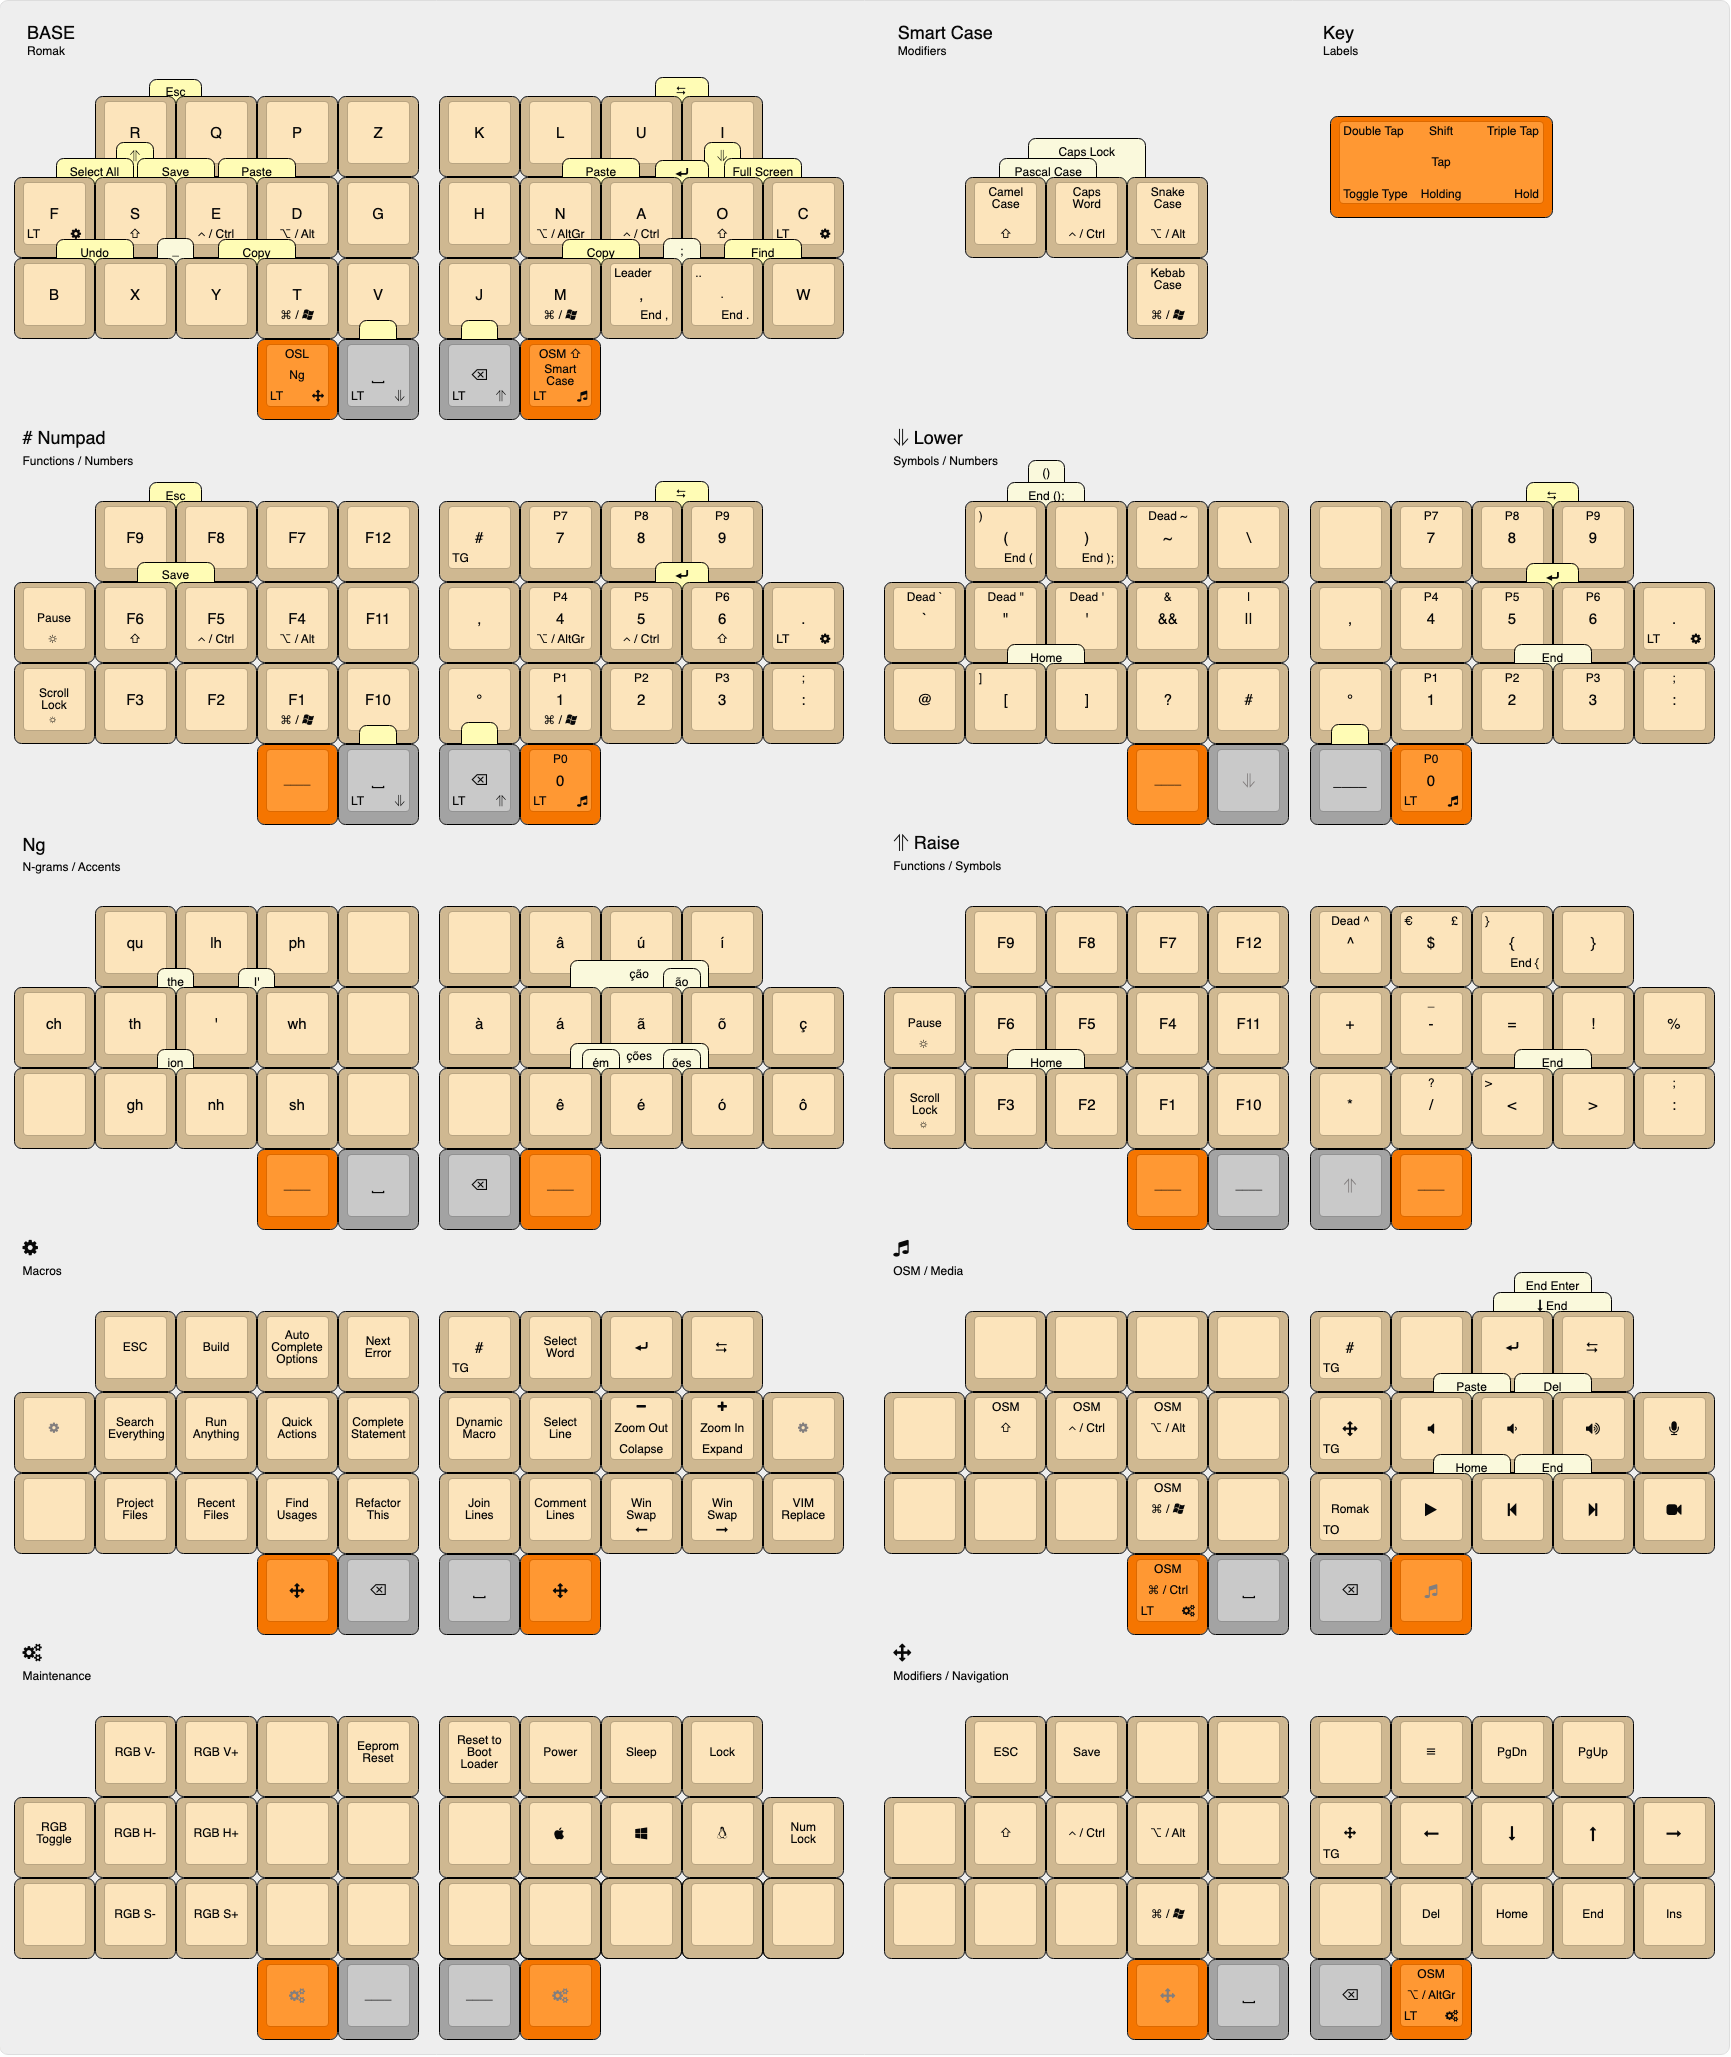
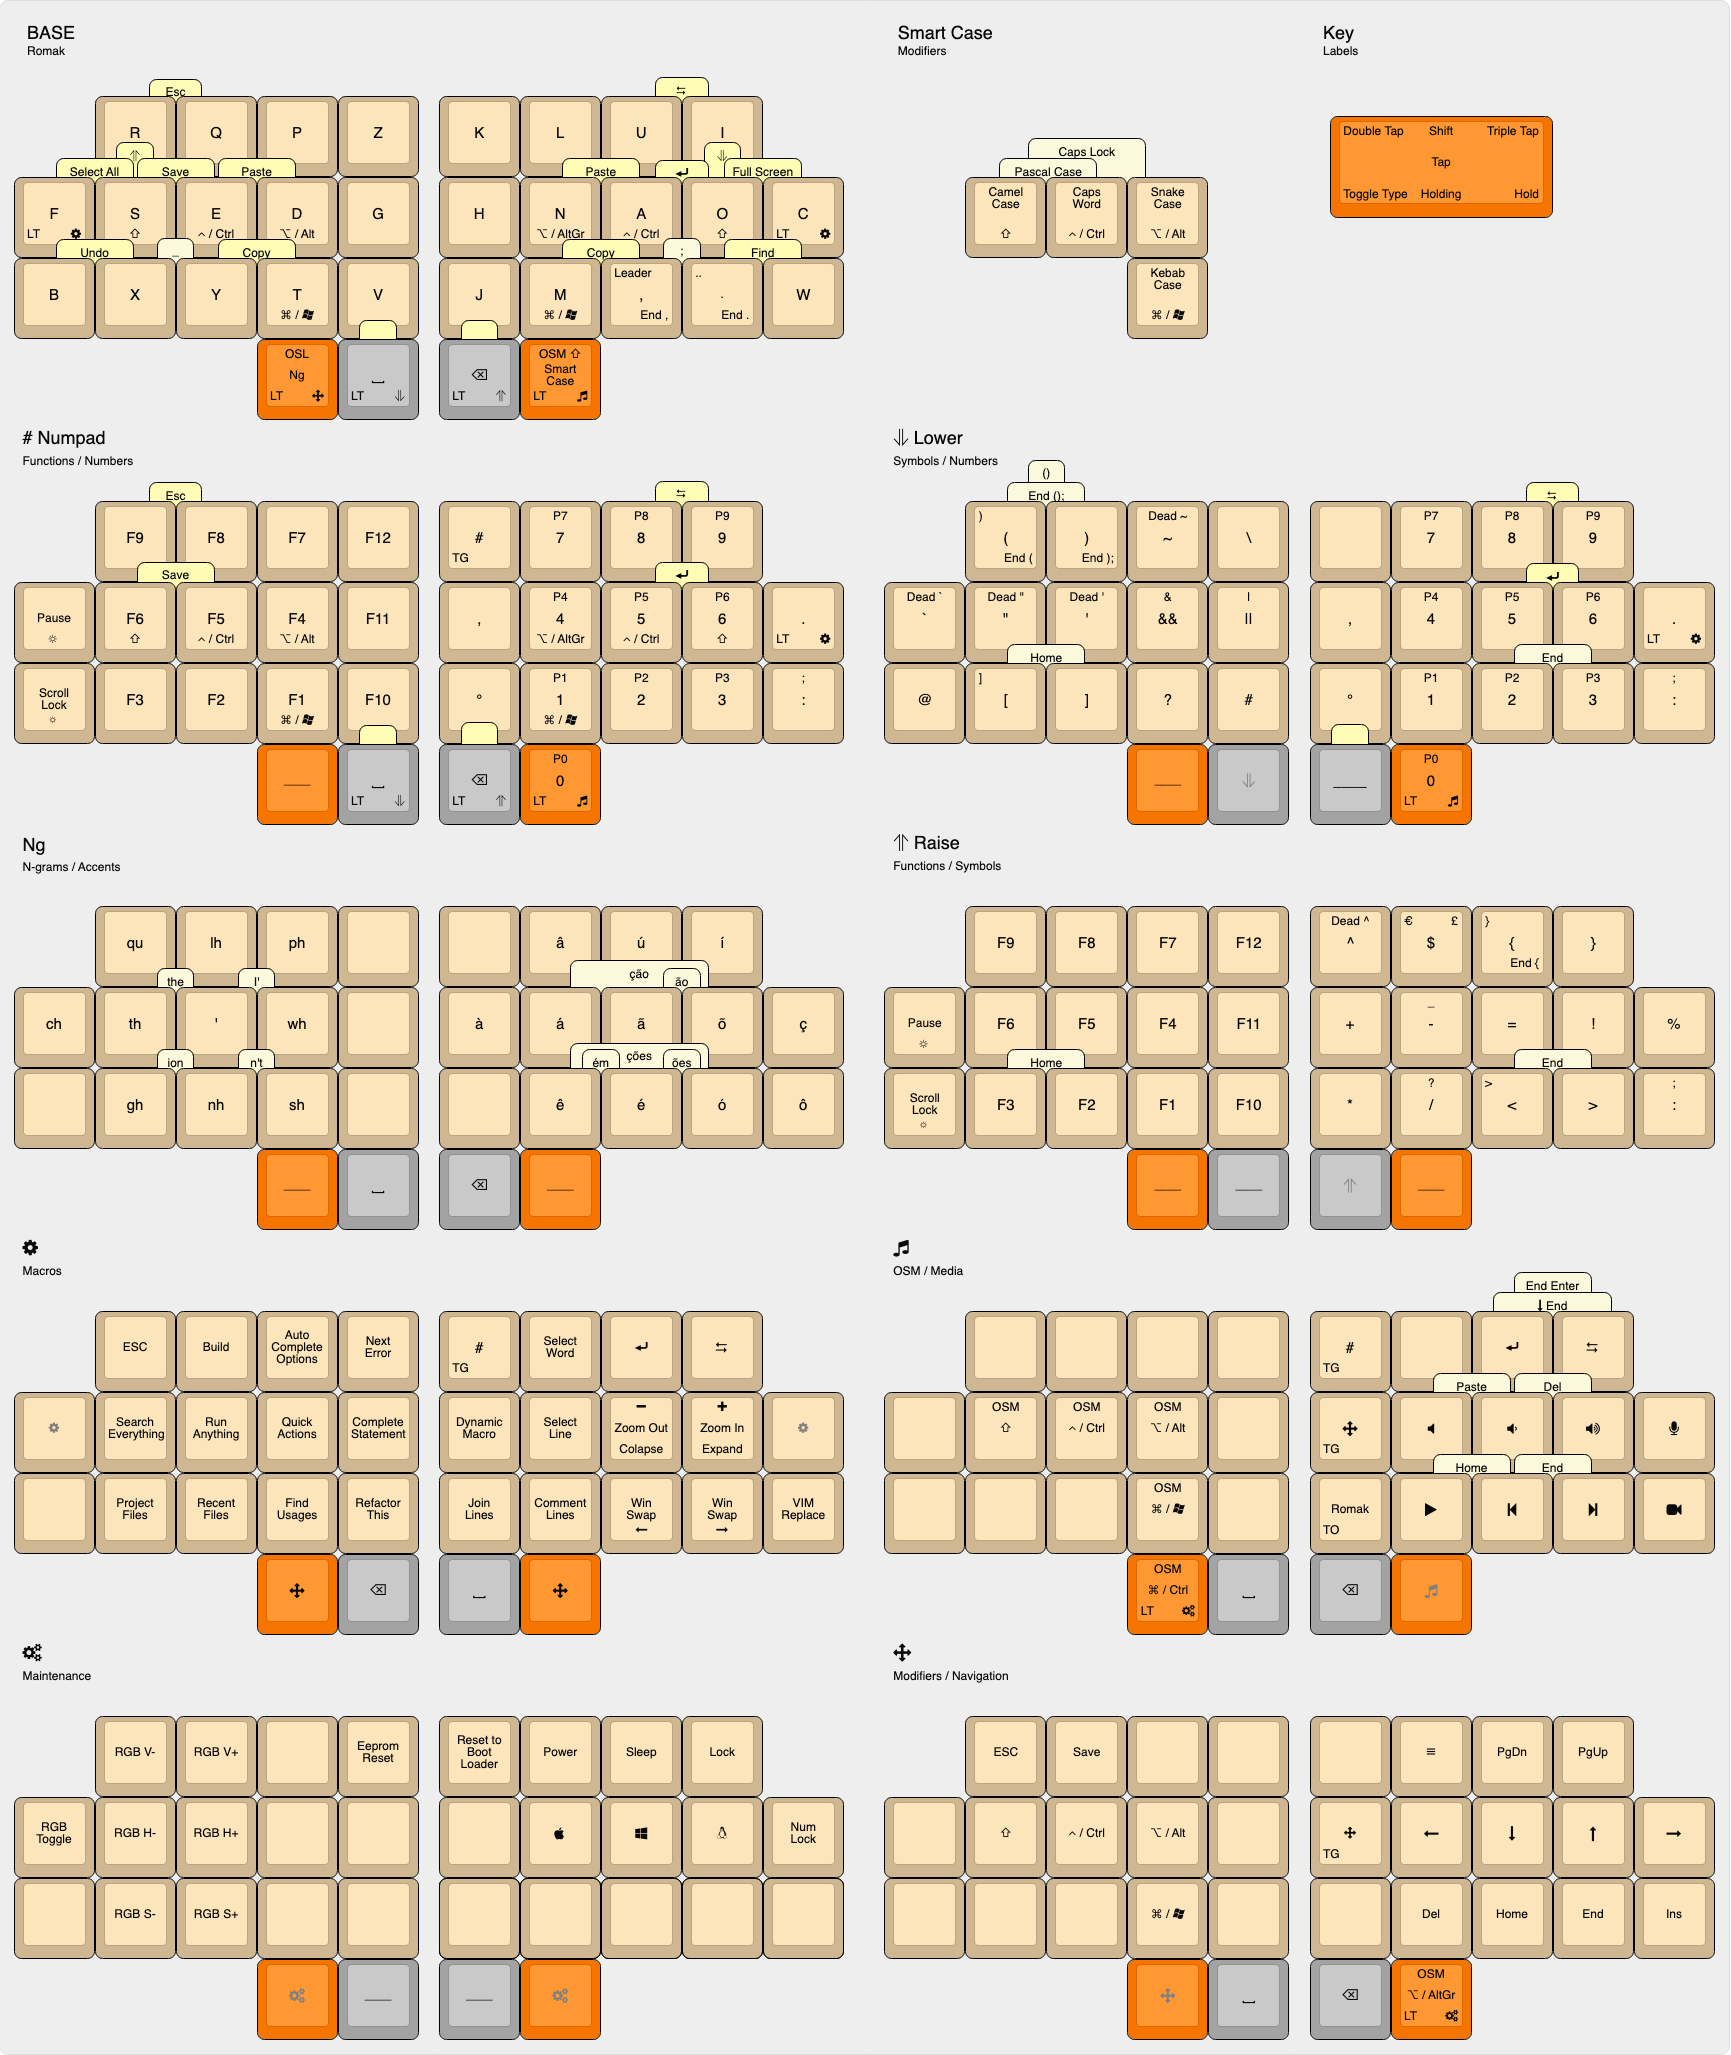
add n't ngram

diff --git a/src/qmk/users/rafaelromao/features/combos.c b/src/qmk/users/rafaelromao/features/combos.c
@@ -32,6 +32,7 @@ const uint16_t PROGMEM r_med_ent_combo[] = {KC_ENT, KC_TAB, COMBO_END};
 // N-Grams
 
 const uint16_t PROGMEM l_ng_i_combo[]    = {MC_SQUO, MC_WH, COMBO_END};
+const uint16_t PROGMEM l_ng_nt_combo[]   = {MC_NH, MC_SH, COMBO_END};
 const uint16_t PROGMEM l_ng_the_combo[]  = {MC_TH, MC_SQUO, COMBO_END};
 const uint16_t PROGMEM l_ng_ion_combo[]  = {MC_GH, MC_NH, COMBO_END};
 const uint16_t PROGMEM r_ng_ao_combo[]   = {MC_TL_A, MC_TL_O, COMBO_END};
@@ -69,18 +70,18 @@ const uint16_t PROGMEM rom_reset_combo[] = {KCF_MAC, KC_B, KCC_MAC, KC_W, COMBO_
 const uint16_t PROGMEM secret_1_combo[] = {SEC_1, SEC_2, SEC_3, SEC_4, COMBO_END};
 
 combo_t key_combos[COMBO_COUNT] = {
-    COMBO(l_num_esc_combo, KC_ESC),  COMBO(l_num_sav_combo, MC_SAVE),    COMBO(r_num_ent_combo, KC_ENT),
-    COMBO(l_low_par_combo, TD_PARN), COMBO(r_low_tab_combo, KC_TAB),     COMBO(r_low_ent_combo, KC_ENT),
-    COMBO(l_ng_the_combo, MC_THE),   COMBO(l_ng_i_combo, MC_I),          COMBO(l_ng_ion_combo, MC_ION),
-    COMBO(r_ng_ao_combo, MC_AO),     COMBO(r_ng_cao_combo, MC_CAO),      COMBO(r_ng_oes_combo, MC_OES),
-    COMBO(r_ng_coes_combo, MC_COES), COMBO(r_ng_em_combo, MC_EM),        COMBO(r_rom_cop_combo, MC_COPY),
-    COMBO(r_rom_sco_combo, TD_SCLE), COMBO(l_rom_usc_combo, KC_UNDS),    COMBO(l_rom_sal_combo, MC_SELC),
-    COMBO(r_rom_pas_combo, MC_PAST), COMBO(l_rom_rai_combo, MO_RAI),     COMBO(l_rom_sav_combo, MC_SAVE),
-    COMBO(l_rom_pas_combo, MC_PAST), COMBO(l_rom_esc_combo, KC_ESC),     COMBO(r_rom_fin_combo, MC_FIND),
-    COMBO(l_rom_und_combo, MC_UNDO), COMBO(l_rom_cop_combo, MC_COPY),    COMBO(r_rom_tab_combo, KC_TAB),
-    COMBO(r_rom_low_combo, MO_LOW),  COMBO(r_rom_ent_combo, KC_ENT),     COMBO(r_rom_ful_combo, MC_FULL),
-    COMBO(l_low_hom_combo, KC_HOME), COMBO(r_low_end_combo, KC_END),     COMBO(l_rai_hom_combo, KC_HOME),
-    COMBO(r_med_hom_combo, KC_HOME), COMBO(r_med_end_combo, KC_END),     COMBO(r_med_del_combo, KC_DEL),
-    COMBO(r_med_ent_combo, TD_EENT), COMBO(r_med_pas_combo, MC_PAST),    COMBO(r_rai_end_combo, KC_END),
-    COMBO(rom_reset_combo, QK_BOOT), COMBO(secret_1_combo, MC_SECRET_1),
+    COMBO(l_num_esc_combo, KC_ESC),  COMBO(l_num_sav_combo, MC_SAVE), COMBO(r_num_ent_combo, KC_ENT),
+    COMBO(l_low_par_combo, TD_PARN), COMBO(r_low_tab_combo, KC_TAB),  COMBO(r_low_ent_combo, KC_ENT),
+    COMBO(l_ng_the_combo, MC_THE),   COMBO(l_ng_i_combo, MC_I),       COMBO(l_ng_nt_combo, MC_NT),
+    COMBO(l_ng_ion_combo, MC_ION),   COMBO(r_ng_ao_combo, MC_AO),     COMBO(r_ng_cao_combo, MC_CAO),
+    COMBO(r_ng_oes_combo, MC_OES),   COMBO(r_ng_coes_combo, MC_COES), COMBO(r_ng_em_combo, MC_EM),
+    COMBO(r_rom_cop_combo, MC_COPY), COMBO(r_rom_sco_combo, TD_SCLE), COMBO(l_rom_usc_combo, KC_UNDS),
+    COMBO(l_rom_sal_combo, MC_SELC), COMBO(r_rom_pas_combo, MC_PAST), COMBO(l_rom_rai_combo, MO_RAI),
+    COMBO(l_rom_sav_combo, MC_SAVE), COMBO(l_rom_pas_combo, MC_PAST), COMBO(l_rom_esc_combo, KC_ESC),
+    COMBO(r_rom_fin_combo, MC_FIND), COMBO(l_rom_und_combo, MC_UNDO), COMBO(l_rom_cop_combo, MC_COPY),
+    COMBO(r_rom_tab_combo, KC_TAB),  COMBO(r_rom_low_combo, MO_LOW),  COMBO(r_rom_ent_combo, KC_ENT),
+    COMBO(r_rom_ful_combo, MC_FULL), COMBO(l_low_hom_combo, KC_HOME), COMBO(r_low_end_combo, KC_END),
+    COMBO(l_rai_hom_combo, KC_HOME), COMBO(r_med_hom_combo, KC_HOME), COMBO(r_med_end_combo, KC_END),
+    COMBO(r_med_del_combo, KC_DEL),  COMBO(r_med_ent_combo, TD_EENT), COMBO(r_med_pas_combo, MC_PAST),
+    COMBO(r_rai_end_combo, KC_END),  COMBO(rom_reset_combo, QK_BOOT), COMBO(secret_1_combo, MC_SECRET_1),
 };

diff --git a/src/qmk/users/rafaelromao/features/macros.c b/src/qmk/users/rafaelromao/features/macros.c
@@ -223,6 +223,9 @@ process_record_result_t process_macros(uint16_t keycode, keyrecord_t *record) {
         case MC_I:
             SEND_STRING("I' ");
             return PROCESS_RECORD_RETURN_FALSE;
+        case MC_NT:
+            SEND_STRING("n't");
+            return PROCESS_RECORD_RETURN_FALSE;
         case MC_ION:
             SEND_STRING("ion");
             return PROCESS_RECORD_RETURN_FALSE;

diff --git a/src/qmk/users/rafaelromao/definitions/keycodes.h b/src/qmk/users/rafaelromao/definitions/keycodes.h
@@ -71,8 +71,9 @@ enum {
     MC_CR_E, MC_TL_O, MC_SQ_C, MC_SQ_E,
 
     MC_QU,  MC_LH,  MC_PH,  
-    MC_TH,  MC_CH,  MC_WH,  MC_THE,        
-    MC_GH,  MC_NH,  MC_SH,  MC_ION, MC_I,    
+    MC_CH,  MC_TH,  MC_WH,  
+    MC_GH,  MC_NH,  MC_SH,  
+    MC_I,   MC_NT,  MC_THE, MC_ION,  
 
     MC_AO, MC_CAO, MC_OES, MC_COES, MC_EM, 
     

diff --git a/src/qmk/users/rafaelromao/config.h b/src/qmk/users/rafaelromao/config.h
@@ -22,7 +22,7 @@
 #define LEADER_NO_TIMEOUT
 
 // Configure combos
-#define COMBO_COUNT 41
+#define COMBO_COUNT 42
 #define COMBO_TERM 30
 #define EXTRA_SHORT_COMBOS
 #define COMBO_STRICT_TIMER
